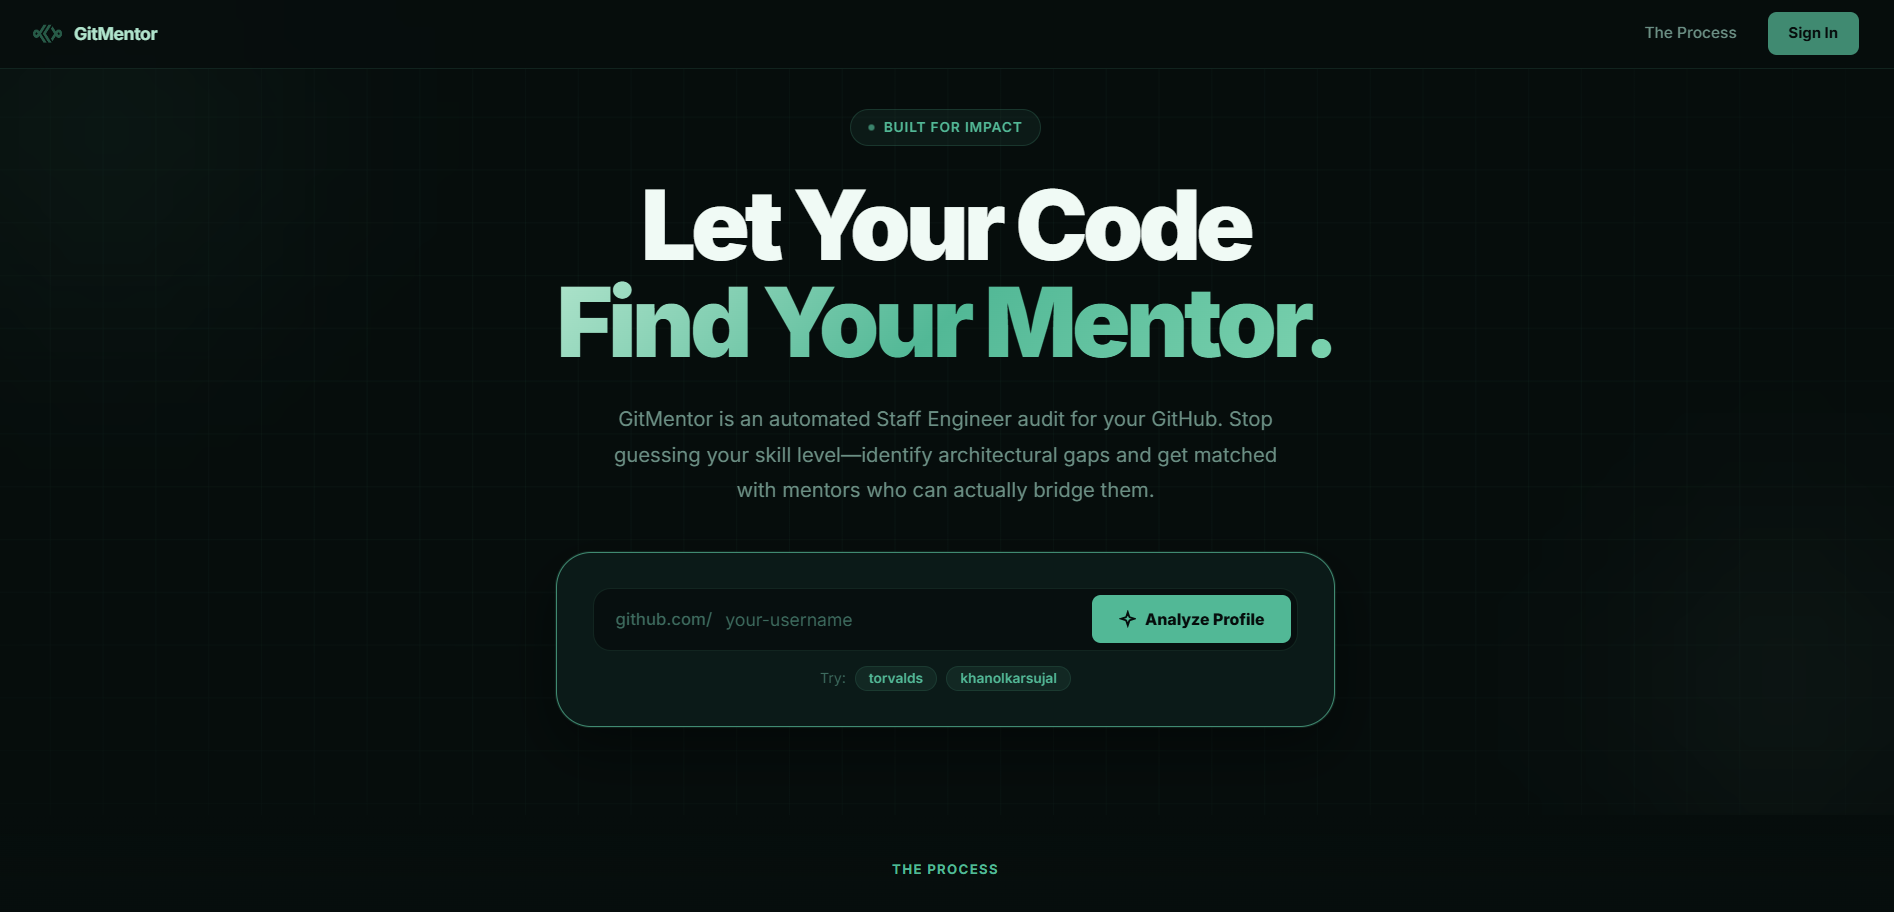
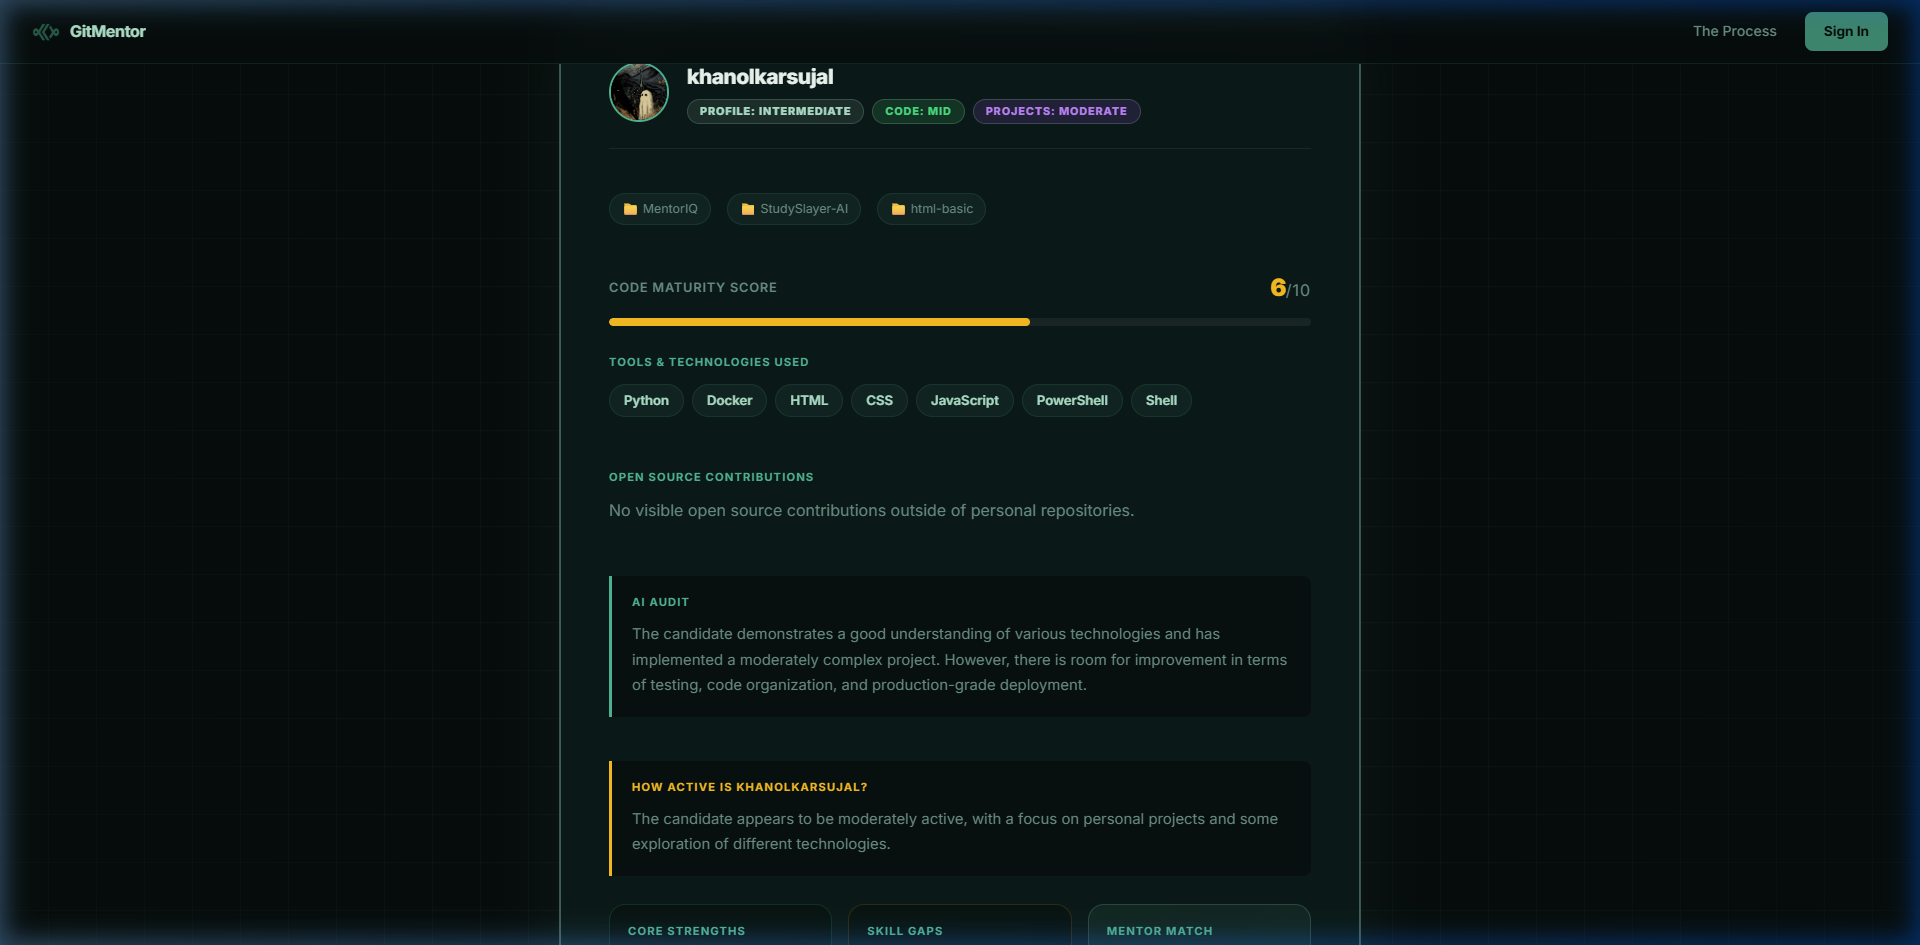
Docs: Add dashboard screenshot to README

diff --git a/README.md b/README.md
@@ -2,7 +2,10 @@
 
 **AI-Powered GitHub Auditing & Mentor Matchmaking Platform**
 
+![MentorIQ Dashboard](frontend/images/screenshot.png)
+
 MentorIQ is a production-ready SaaS application that audits GitHub profiles using AI to assess code maturity, engineering practices, and technical depth. It then intelligently matches developers with high-level industry mentors (from companies like Meta, Google, OpenAI, etc.) based on their specific skill gaps and tech stack.
+
 
 ---
 
@@ -61,4 +64,4 @@ The application will be live at [http://localhost:8000](http://localhost:8000).
 - **Frontend**: Vanilla HTML5, CSS3, JavaScript (ES6+)
 
 ---
-*Developed for Ignite Hack 2.0*
+*Developed by Khanolkar Sujal*
